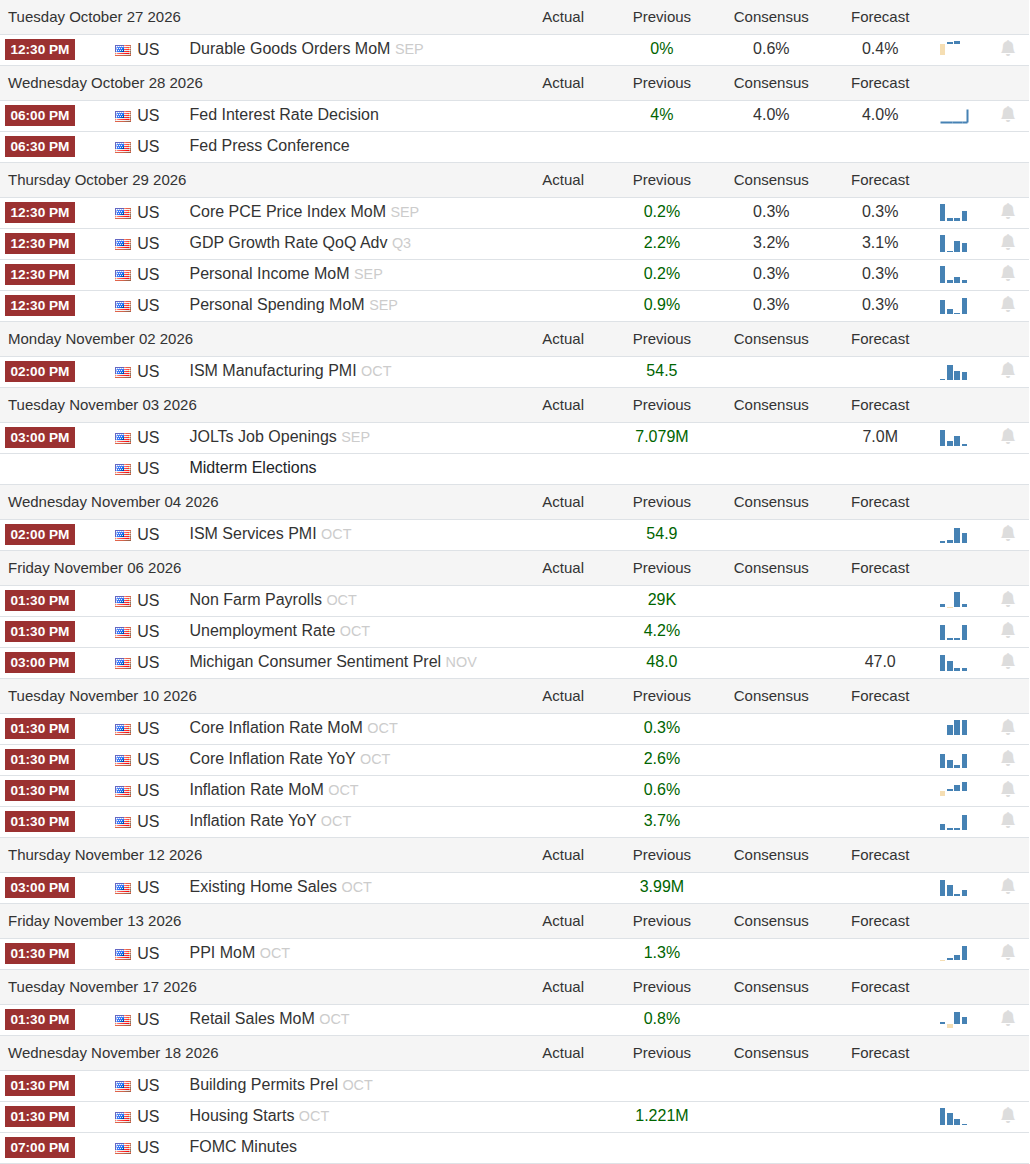
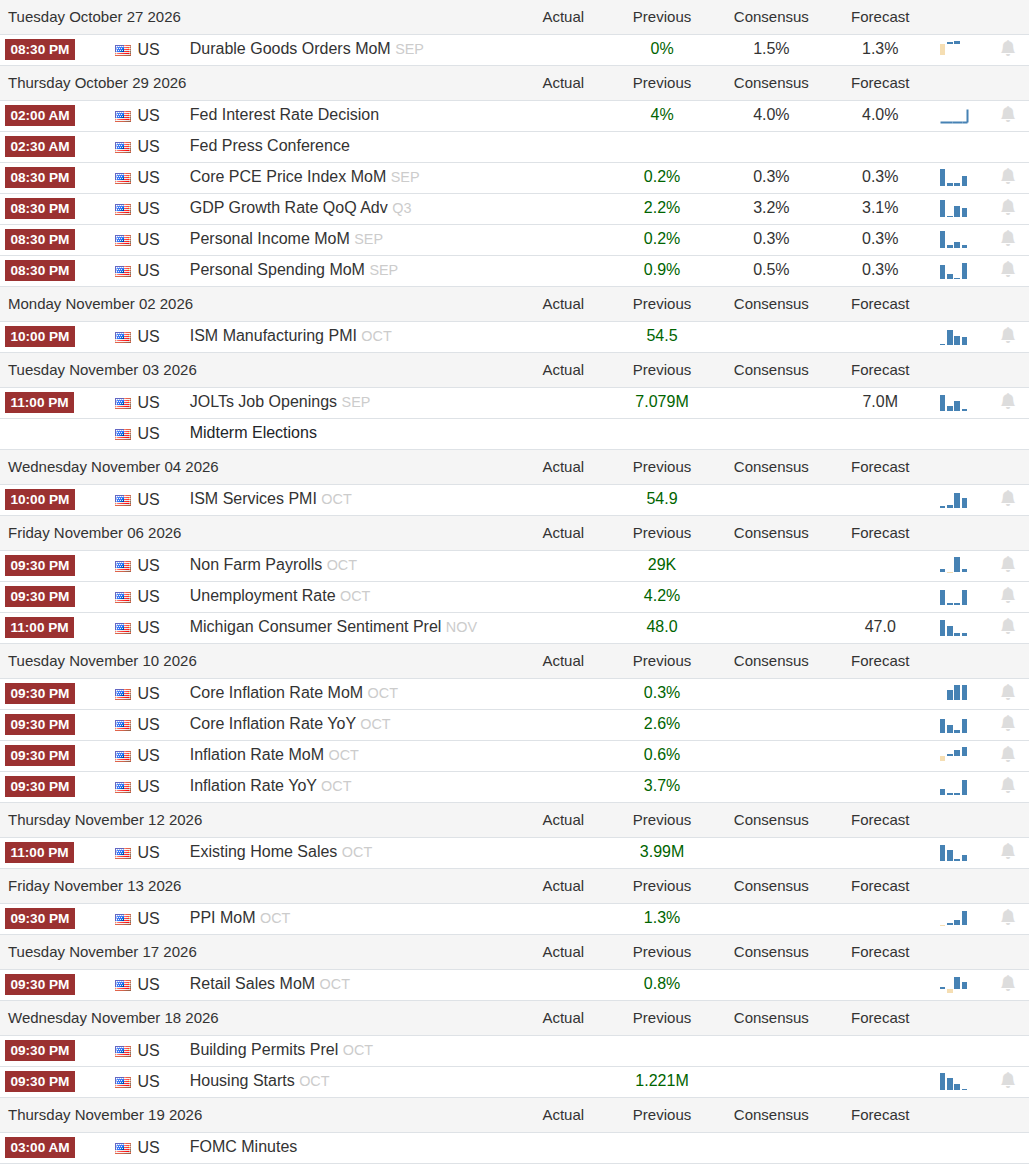
Set Trading Economics calendar screenshots to UTC+8 (#6)
* Set Trading Economics calendar screenshots to UTC+8

Add TECalendarOffset=480 alongside the existing 3-star
importance cookie so event times render in Asia/Shanghai.

* Make TE calendar UTC+8 reliable under Playwright

Cookie alone left times in UTC on Actions-like browsers.
Set Asia/Shanghai context timezone and force the TE
timezone dropdown to 480 when needed; refresh screenshot.

---------

diff --git a/capture.js b/capture.js
@@ -427,13 +427,21 @@ async function handleSchrtsChart(page, site, targetFile) {
 
 
 async function handleTradingEconomicsCalendar(page, site, targetFile) {
-  // Set cookie so only high-importance (3-star) events are shown
-  await page.context().addCookies([{
-    name: 'calendar-importance',
-    value: '3',
-    domain: '.tradingeconomics.com',
-    path: '/'
-  }]);
+  // 3-star importance + UTC+8 (480 minutes east of UTC; no DST)
+  await page.context().addCookies([
+    {
+      name: 'calendar-importance',
+      value: '3',
+      domain: '.tradingeconomics.com',
+      path: '/'
+    },
+    {
+      name: 'TECalendarOffset',
+      value: '480',
+      domain: '.tradingeconomics.com',
+      path: '/'
+    }
+  ]);
 
   await page.goto(site.url, {
     waitUntil: 'domcontentloaded',
@@ -442,6 +450,17 @@ async function handleTradingEconomicsCalendar(page, site, targetFile) {
 
   await sleep(site.waitAfterLoadMs || 8000);
   await dismissCommonPopups(page);
+
+  // Cookie alone is not always applied; force the timezone dropdown when needed.
+  const tzSelect = page.locator('#DropDownListTimezone');
+  if (await tzSelect.count()) {
+    const current = await tzSelect.inputValue().catch(() => '');
+    if (current !== '480') {
+      await tzSelect.selectOption('480');
+      await sleep(site.waitAfterLoadMs || 8000);
+      await dismissCommonPopups(page);
+    }
+  }
 
   // Extra wait for the filtered table
   await page.locator('table.table').first().waitFor({ state: 'visible', timeout: 20000 }).catch(() => {});
@@ -546,12 +565,17 @@ async function runCapture(page, site, targetFile) {
 }
 
 async function captureSite(browser, site) {
-  const context = await browser.newContext({
+  const contextOptions = {
     viewport: { width: 1800, height: 1500 },
     userAgent: 'Mozilla/5.0 (Windows NT 10.0; Win64; x64) AppleWebKit/537.36 (KHTML, like Gecko) Chrome/138.0.0.0 Safari/537.36',
     ignoreHTTPSErrors: true,
     deviceScaleFactor: 1
-  });
+  };
+  // TE calendar times follow the browser timezone unless TECalendarOffset is honored server-side.
+  if (site.name === 'Trading Economics Calendar') {
+    contextOptions.timezoneId = 'Asia/Shanghai';
+  }
+  const context = await browser.newContext(contextOptions);
 
   const page = await context.newPage();
   const targetFile = path.join(screenshotDir, site.file);
